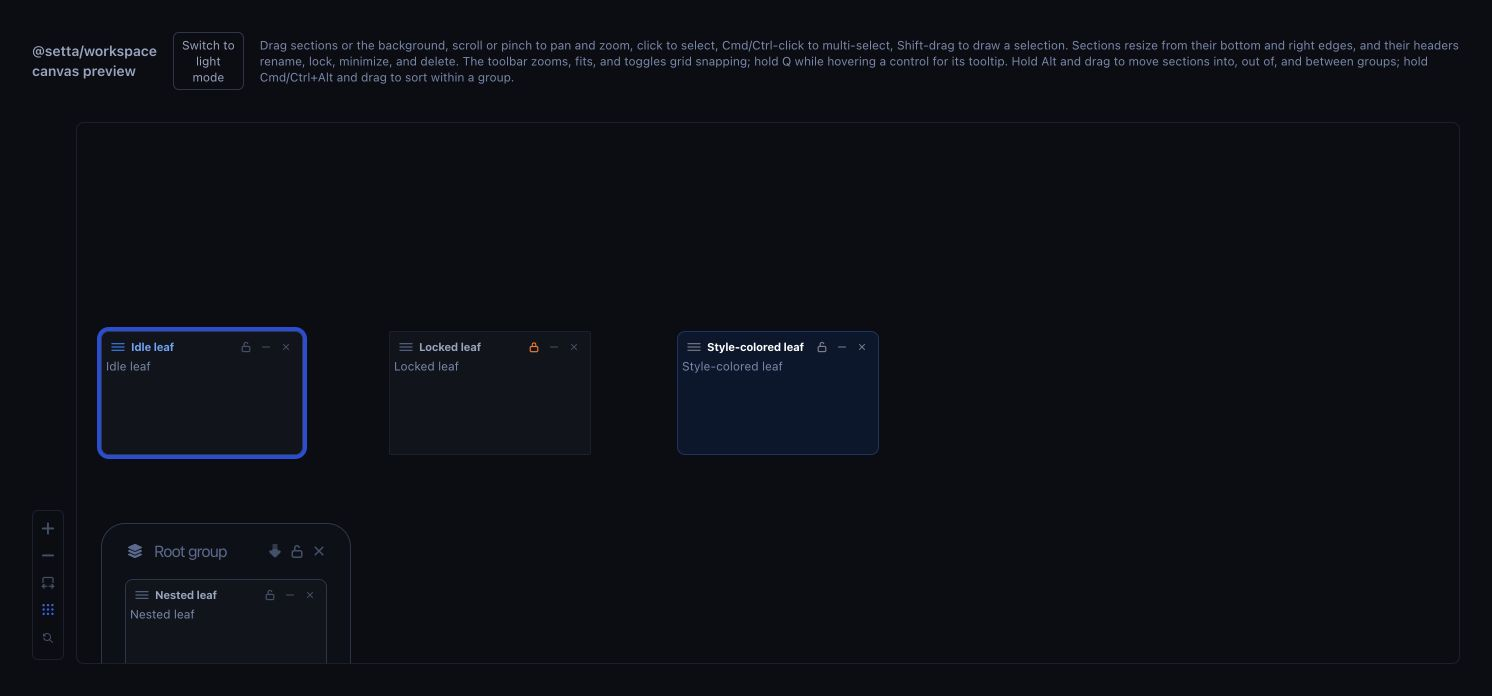
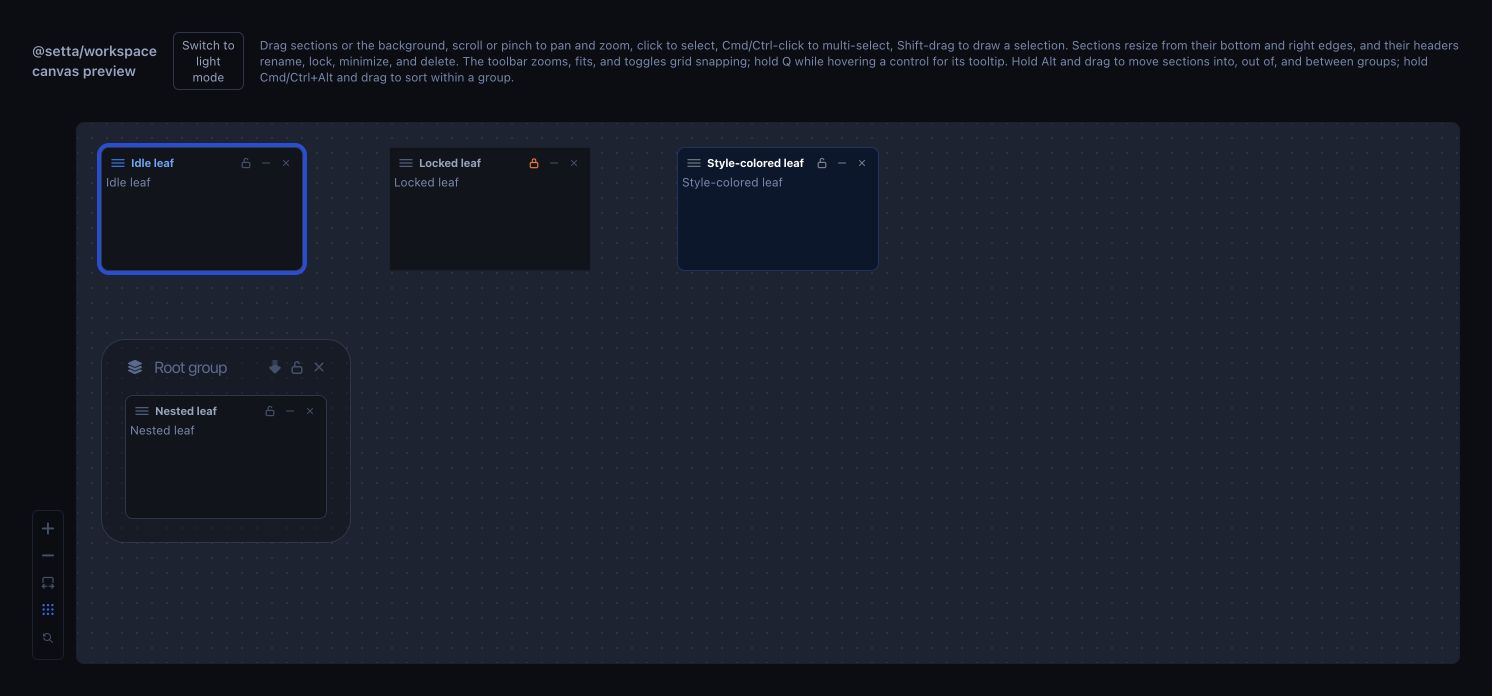
docs: refresh Phase 1 correction evidence

diff --git a/docs/evidence/phase1/side-by-side/README.md b/docs/evidence/phase1/side-by-side/README.md
@@ -10,7 +10,7 @@ the gate.
 - Frozen product authority: `../setta-main`, branch `main`, commit
   `043d3b2e9c69caf99d1246f1408b3ad7194b7864`.
 - Extraction implementation under review: branch `workspace-extraction`, commit
-  `ae1e8c3b6ae34419a17d5da0ad56b22af6791b72` plus this evidence commit.
+  `66d22582582b971b42ce184da5c387e1a83d9d3f` plus this evidence commit.
 - Capture date: 2026-08-11 in `America/Los_Angeles`.
 - Live URLs: main at `http://127.0.0.1:3063/being_cliff`; playground at
   `http://127.0.0.1:5174/`.
@@ -39,8 +39,7 @@ Exact geometry, colors, toolbar measurements, and before/after interaction obser
 
 ## Live comparison result
 
-The first supervised pass rejected the playground output and fixed three visible discrepancies
-before this bundle was captured:
+The initial supervised pass rejected the playground output and fixed three visible discrepancies:
 
 1. The host body used the `section-full` grid area and overlapped the package header. Commit
    `c63e6f890` moved it to the reference body rows.
@@ -50,8 +49,26 @@ before this bundle was captured:
    main's 26 x 26 control. Commit `ae1e8c3b6` restored the live 5-pixel padding with consumer-safe
    selector specificity.
 
+The developer then rejected the first gate presentation for three additional discrepancies. Commit
+`66d225825` closes them for recheck:
+
+1. The canvas used the playground host's near-black surface and omitted the fork's SVG grid. The
+   package now owns main's exact light/dark canvas colors, zoom-aware grid pattern, and grid option
+   seam.
+2. Invalid-drop feedback rendered inside the target section's stacking context, so the opaque blue
+   drag preview covered the red label. Feedback now uses a body portal one layer above the preview.
+3. Cross-parent insertion used the motion-sensitive trailing edge of the dragged section. A one-pixel
+   downward movement could therefore place the placeholder after the first child on entry. Cross-parent
+   insertion now compares the dragged section's leading edge; same-parent sorting retains its
+   direction-aware hysteresis.
+
+The latter two changes are explicit developer-directed interaction corrections, not literal
+preservation of the frozen behavior; the developer's gate feedback supersedes that behavior.
+
 After those fixes, the live package output matches the accepted Phase 0 measurements:
 
+- the canvas surface is `rgb(28, 35, 49)` with `#2b364a` dots in dark appearance and
+  `rgb(148, 163, 184)` with `#afbacf` dots in light appearance, using the reference 15-pixel grid;
 - idle and selected leaves are both 202 x 124; selection changes only the 4-pixel outline and
   z-index (10 to 150);
 - dark/light outer, inner, border, outline, and style-colored chrome match the recorded values;
@@ -66,16 +83,16 @@ After those fixes, the live package output matches the accepted Phase 0 measurem
   1 -> 1.2 -> 1 -> 1, and fit view keeps all slice sections visible.
 
 The Chrome extension API cannot keep a keyboard key depressed across a later pointer command, so
-it cannot produce a sustained Alt or Mod+Alt package drag screenshot. Those exact held-mode,
-collision, sorting, reparenting, and deferred-release paths are covered by the ported package
-characterization/integration suites (234 tests), while main's sustained gestures remain preserved
-in the Phase 0 traces and screenshots. The live main and playground tabs are left open for optional
-manual held-key comparison at the developer gate.
+it cannot produce a sustained Alt or Mod+Alt package drag screenshot. Those held-mode, collision,
+sorting, reparenting, and deferred-release paths are covered by the ported package
+characterization/integration suites (242 tests), including focused regression tests for the two
+reported drop-feedback defects. The live main and playground tabs are left open for the required
+manual held-key recheck at the developer gate.
 
 No warnings or errors were emitted by the playground during the comparison. Main emitted only the
 previously recorded React Router future warning and React 19 `element.ref` diagnostics.
 
 ## Decision
 
-**Pending developer acceptance.** Phase 2 must not begin until the developer accepts this visual
-and interaction result.
+**Rejected once; corrected; developer recheck pending.** Phase 2 must not begin until the developer
+accepts the corrected visual and interaction result.

diff --git a/docs/plans/setta-workspace-extraction-plan.md b/docs/plans/setta-workspace-extraction-plan.md
@@ -243,9 +243,18 @@ Phase 1 progress (2026-08-10):
   geometry (`1b4c516df`), and a Tailwind cascade that reduced reset zoom from main's 26 x 26 to
   24 x 24 (`ae1e8c3b6`). The recaptured dark/light, selected, moved, resized, minimized, and fit
   states plus exact computed comparisons are in
-  `docs/evidence/phase1/side-by-side/README.md`. The supplementary `/settings` parameter-style
-  source suggested by the developer is now captured in the Phase 0 reference bundle without
-  widening the Phase 1 slice. Developer acceptance remains pending.
+  `docs/evidence/phase1/side-by-side/README.md`. The developer rejected the first gate presentation
+  for a missing reference canvas surface/grid, invalid-drop feedback hidden below the opaque drag
+  preview, and unstable cross-parent placeholder placement. Commit `66d225825` restores the exact
+  light/dark canvas and zoom-aware grid, portals drop feedback one layer above the preview, and uses
+  the dragged section's leading edge for cross-parent insertion while retaining direction-aware
+  hysteresis within one parent. Refreshed live evidence is ready; the corrected held-key behaviors
+  require developer recheck because Chrome automation cannot sustain Alt across pointer commands.
+  The feedback-layer and cross-parent-edge changes are explicit developer-directed corrections that
+  supersede literal preservation of the frozen behavior.
+  The supplementary `/settings` parameter-style source suggested by the developer is captured in
+  the Phase 0 reference bundle without widening the Phase 1 slice. Developer acceptance remains
+  pending.
 - Remaining Phase 1 work: developer acceptance of the live side-by-side evidence at the exit gate.
 
 - Extraction branch: `workspace-extraction`
